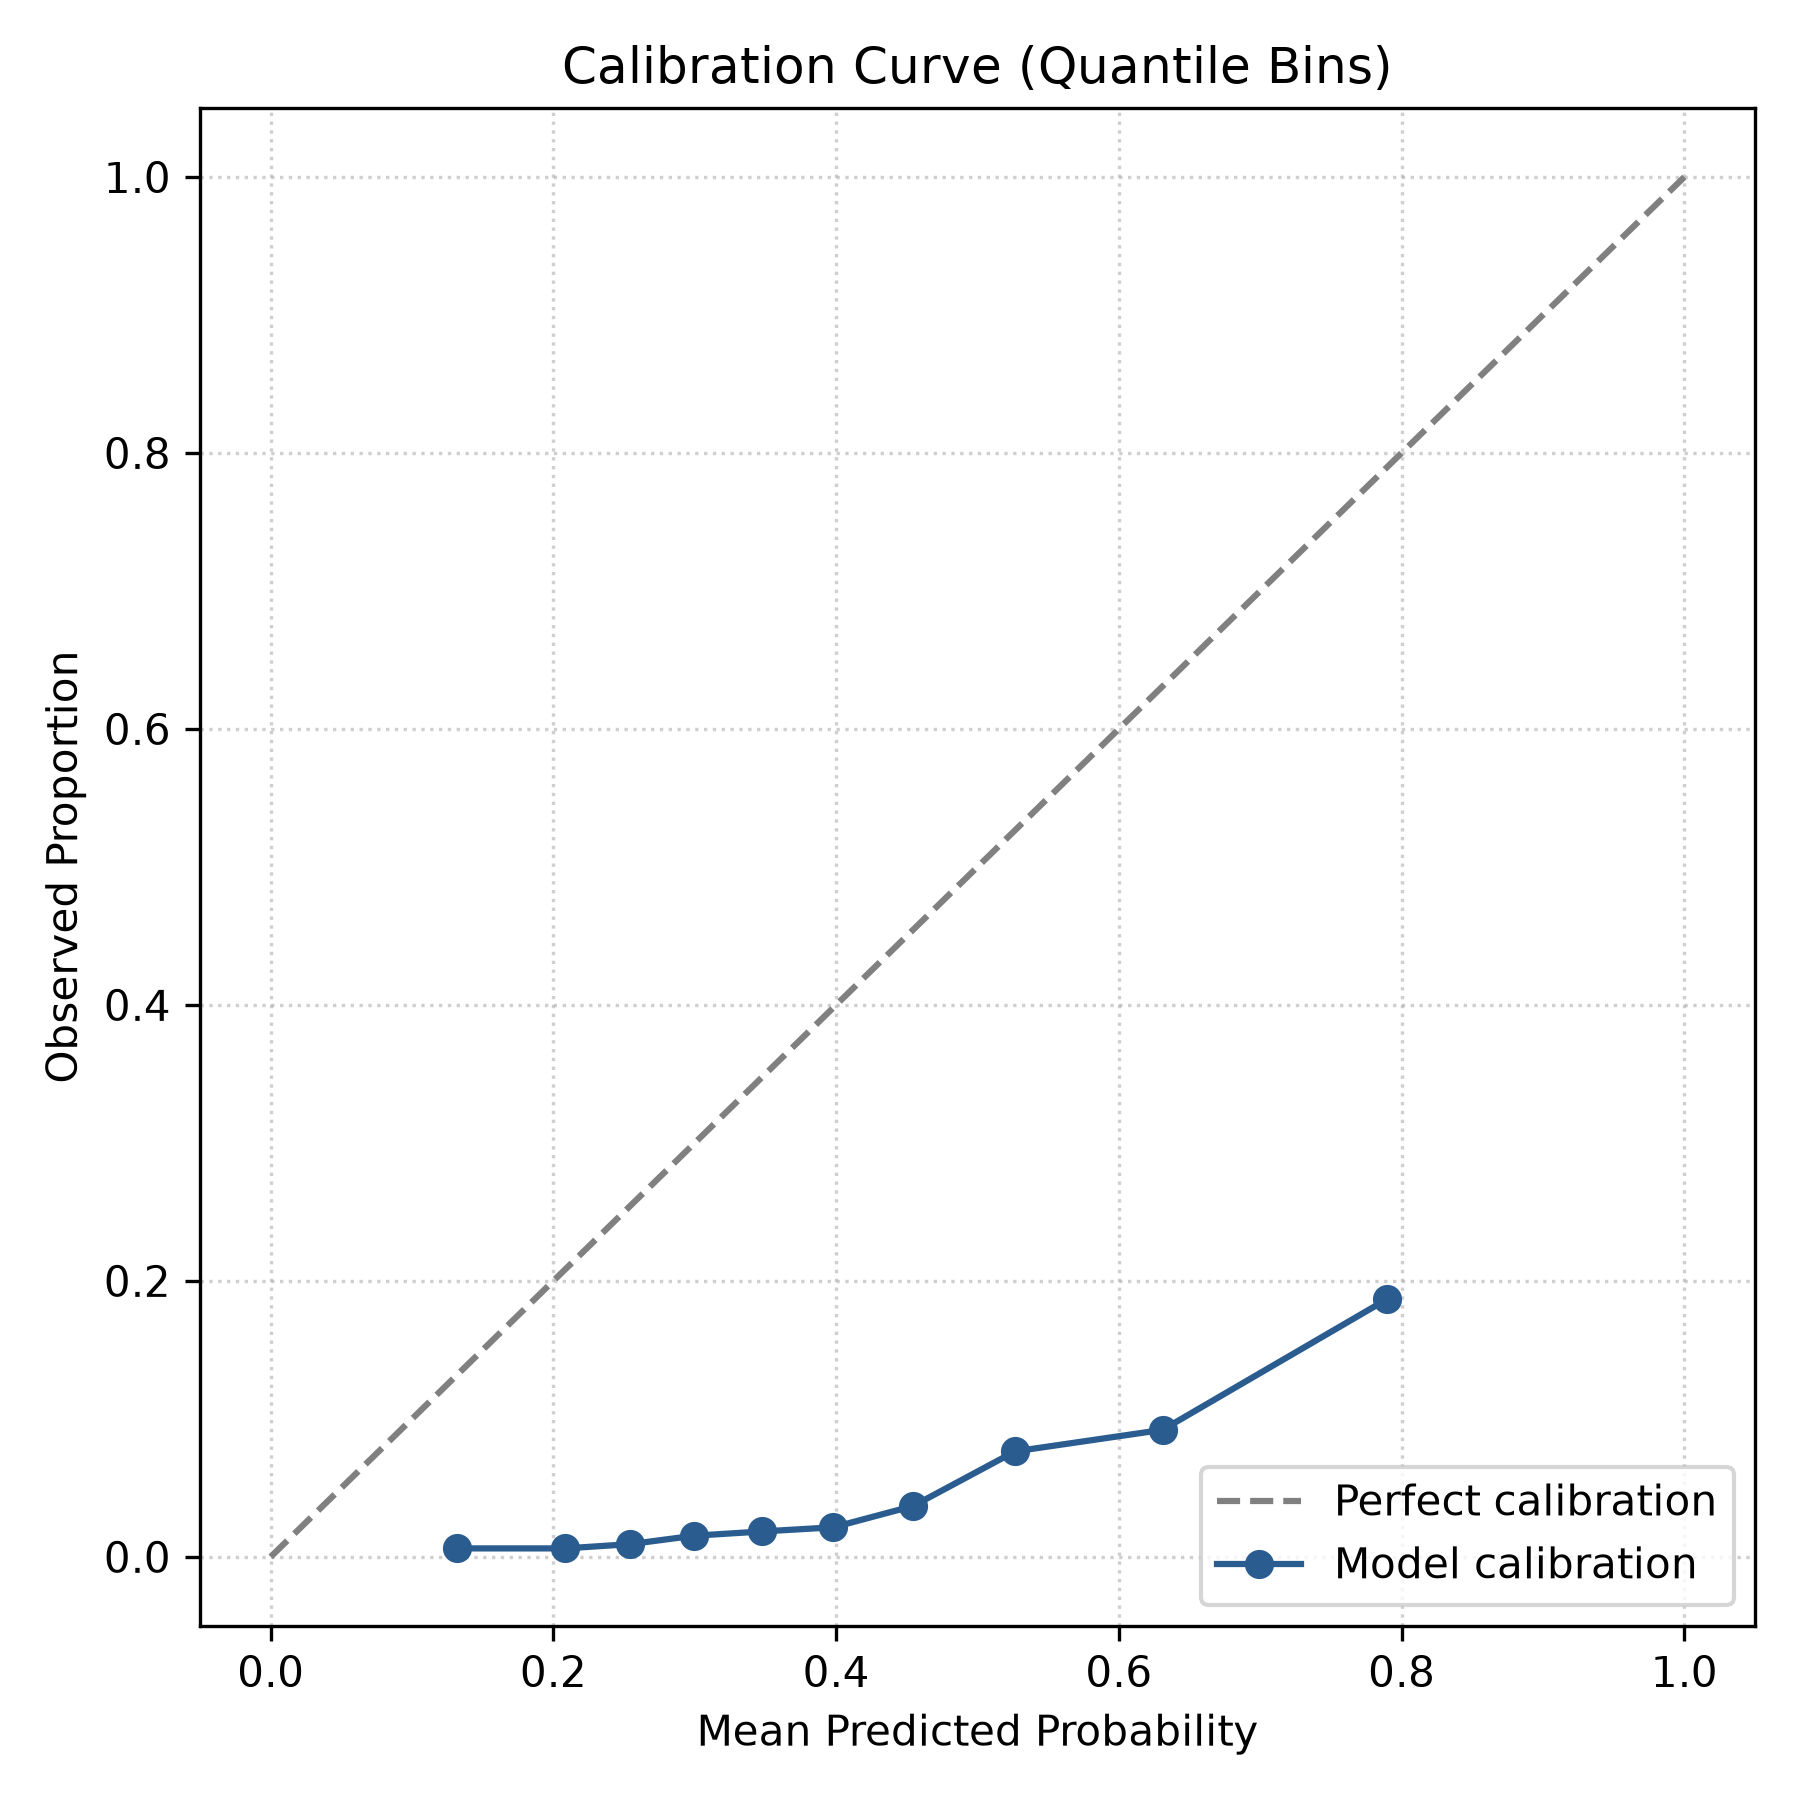
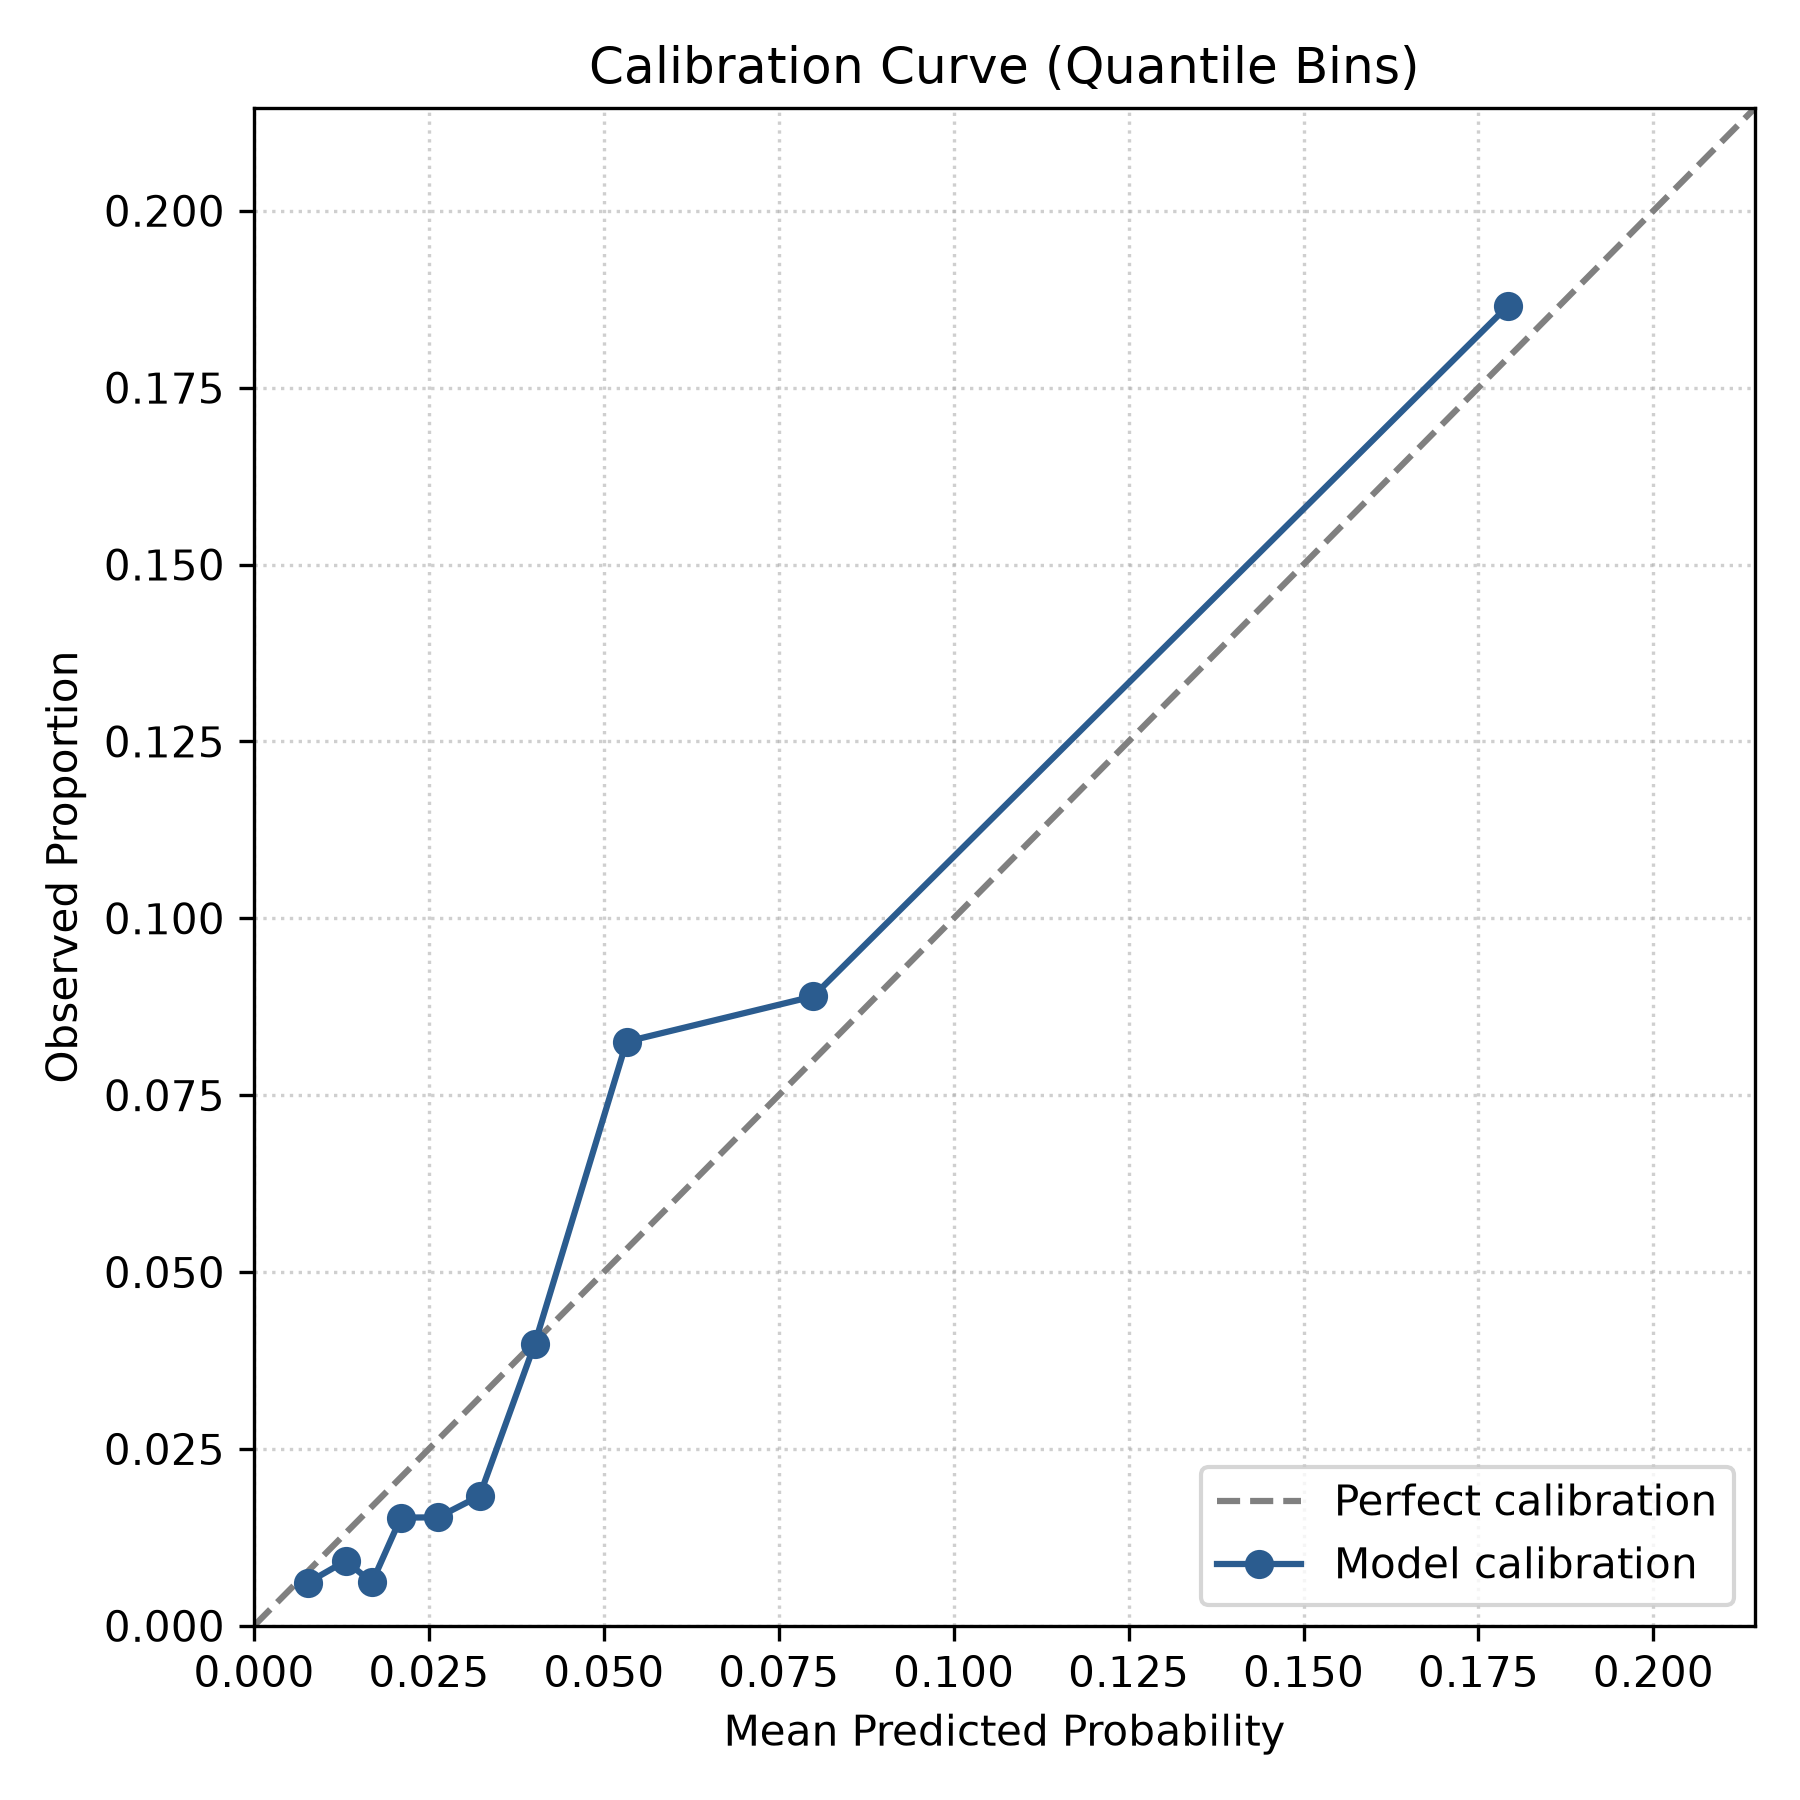
Train without class weighting and report observed-scale probabilities
Remove inverse-frequency class weighting, which pushed predicted
probabilities towards 50% (Brier 0.189). The unweighted model has
Brier 0.041 at the same AUC (0.805), with the Youden threshold (0.0494)
chosen on out-of-fold predictions. Bump model to v1.1.0, update the
regression tests and README, and zoom the calibration plot axes.

diff --git a/src/stroke_model/train.py b/src/stroke_model/train.py
@@ -51,12 +51,10 @@ def train_ridge_model(
     X_test = test_df[ALL_PREDICTORS]
     y_test = test_df[TARGET_COLUMN].values
 
-    # Calculate class weights for training set (inverse frequency)
-    n_survived = int(np.sum(y_train == 0))
-    n_died = int(np.sum(y_train == 1))
-    death_weight = float(n_survived / n_died)
-    class_weight = {0: 1.0, 1: death_weight}
-    print(f"  Class weights - Survived (0): 1.0, Died (1): {death_weight:.2f}")
+    # No class weighting: each patient counts equally so that predicted
+    # probabilities stay on the scale of the observed death rate. The low event
+    # rate is handled by the Youden threshold chosen in Step 5.
+    print(f"  Training deaths: {int(np.sum(y_train == 1))} of {len(y_train)} ({np.mean(y_train):.1%})")
 
     print("Step 3: Setting up preprocessing and Ridge logistic regression pipeline...")
     pipeline = Pipeline(
@@ -67,7 +65,6 @@ def train_ridge_model(
                 LogisticRegression(
                     solver="lbfgs",
                     max_iter=1000,
-                    class_weight=class_weight,
                     random_state=123
                 )
             )
@@ -159,7 +156,7 @@ def train_ridge_model(
 
     # Save model artifact and metadata
     print("Step 9: Packaging model artifact and metadata...")
-    model_version = "v1.0.0"
+    model_version = "v1.1.0"
     model_file = output_path / "stroke_ridge_pipeline.joblib"
     joblib.dump(best_pipeline, model_file)
 
@@ -172,7 +169,7 @@ def train_ridge_model(
         "cv_auc": round(best_cv_auc, 4),
         "test_metrics": test_metrics,
         "predictors": ALL_PREDICTORS,
-        "class_weight_death": death_weight
+        "class_weighting": "none"
     }
 
     metadata_file = output_path / "model_metadata.json"

diff --git a/tests/test_predict.py b/tests/test_predict.py
@@ -124,10 +124,30 @@ def test_clinical_monotonicity_subtype():
 
 
 def test_model_regression_snapshot():
-    """Golden regression test: verify fixed synthetic patient matches saved model baseline."""
-    predictor = StrokePredictor()
-    result = predictor.predict_record(SYNTHETIC_RECORDS[0])
+    """Golden regression test: fixed synthetic patients must match the saved v1.1.0 baseline.
 
-    # Low risk synthetic baseline (expected ~0.04)
-    assert 0.01 <= result["mortality_probability"] <= 0.10
-    assert result["high_risk_flag"] is False
+    The model is trained without class weighting, so predicted probabilities sit on the
+    scale of the observed death rate (about 4.7%). The Youden threshold is about 0.049.
+    """
+    predictor = StrokePredictor()
+
+    # Low risk synthetic patient: predicted risk about 0.005, below the threshold
+    low = predictor.predict_record(SYNTHETIC_RECORDS[0])
+    assert 0.001 <= low["mortality_probability"] <= 0.03
+    assert low["high_risk_flag"] is False
+
+    # High risk synthetic patient: predicted risk about 0.47, above the threshold
+    high = predictor.predict_record(SYNTHETIC_RECORDS[1])
+    assert 0.30 <= high["mortality_probability"] <= 0.65
+    assert high["high_risk_flag"] is True
+
+
+def test_probabilities_on_observed_risk_scale():
+    """The typical synthetic patient must not receive a risk far above the 4.7% death rate.
+
+    Guards against reintroducing class weighting, which shifts probabilities towards 50%.
+    """
+    predictor = StrokePredictor()
+    mid_record = dict(SYNTHETIC_RECORDS[0], age=72.0, sbp=150.0, delay=14.0, subtype="PACS")
+    assert predictor.predict_record(mid_record)["mortality_probability"] < 0.15
+    assert predictor.threshold < 0.15

diff --git a/src/stroke_model/evaluate.py b/src/stroke_model/evaluate.py
@@ -102,11 +102,17 @@ def plot_calibration(
         y_true, y_prob, n_bins=n_bins, strategy="quantile"
     )
 
+    # Zoom to the range of the data. Predicted risks are low because the event rate is low,
+    # so a 0 to 1 axis would squeeze every point into one corner.
+    axis_max = min(1.0, float(max(prob_pred.max(), prob_true.max())) * 1.15)
+
     plt.figure(figsize=(6, 6))
-    plt.plot([0, 1], [0, 1], linestyle="--", color="gray", label="Perfect calibration")
+    plt.plot([0, axis_max], [0, axis_max], linestyle="--", color="gray", label="Perfect calibration")
     plt.plot(prob_pred, prob_true, marker="o", color="#2b5c8f", label="Model calibration")
     plt.xlabel("Mean Predicted Probability")
     plt.ylabel("Observed Proportion")
+    plt.xlim(0, axis_max)
+    plt.ylim(0, axis_max)
     plt.title("Calibration Curve (Quantile Bins)")
     plt.legend(loc="lower right")
     plt.grid(True, linestyle=":", alpha=0.6)

diff --git a/README.md b/README.md
@@ -6,6 +6,14 @@ This project ports, packages, and serves a machine learning model predicting 14-
 
 ---
 
+## Live Demo
+
+The service is deployed on Render's free tier at [stroke-mortality-model.onrender.com](https://stroke-mortality-model.onrender.com). Opening the link redirects to the interactive API documentation at `/docs`, where the `POST /predict` endpoint can be tried directly in the browser.
+
+Two limitations of the free tier apply. The service sleeps after 15 minutes without traffic, so the first request after a quiet period can take about a minute. The filesystem is also reset on every restart, so prediction logs written by the deployed service are not kept. The drift check in `monitoring/` is intended to be run on logs from a local run.
+
+---
+
 ## Clinical and Methodological Context
 
 In acute stroke care, early mortality risk assessment can assist in triage, resource planning, and identifying patients at elevated risk of deterioration. 
@@ -13,7 +21,7 @@ In acute stroke care, early mortality risk assessment can assist in triage, reso
 A primary methodological challenge in this cohort is the severe **class imbalance**, with an observed event rate of **4.7%**. Standard evaluation approaches that focus purely on accuracy or discrimination (such as the Area Under the ROC Curve) can be misleading:
 * A model can achieve an AUC of 0.80 while still predicting risks that are systematically too high or too low.
 * For rare adverse events, **calibration** (assessed via calibration curves and Brier score) is vital to ensure that a predicted probability of 10% genuinely corresponds to roughly 10 observed deaths per 100 similar patients.
-* The classification threshold must be chosen deliberately. Here, **Youden's J statistic** is optimised strictly on cross-validation folds to balance sensitivity and specificity without data leakage into the test set.
+* The classification threshold must be chosen deliberately. Here, **Youden's J statistic** is optimised strictly on cross-validation folds to balance sensitivity and specificity without data leakage into the test set. Because the event rate is low, the resulting threshold on predicted risk is also low (about 0.049), and the high-risk flag is a screening flag and not a confident prediction of death.
 
 ---
 
@@ -66,7 +74,7 @@ python -m stroke_model.train
 
 This performs:
 1. Stratified 75/25 train-test partitioning.
-2. 10-fold cross-validation with inverse-frequency class weighting.
+2. 10-fold cross-validation to tune the ridge penalty, with no class weighting.
 3. Optimal regularisation tuning for Ridge logistic regression.
 4. Out-of-fold threshold optimisation using Youden's J statistic.
 5. Export of the versioned model pipeline artifact to `models/`.
@@ -144,10 +152,10 @@ curl -X POST "http://localhost:8000/predict" \
 Example response:
 ```json
 {
-  "mortality_probability": 0.4128,
+  "mortality_probability": 0.0187,
   "high_risk_flag": false,
-  "threshold_applied": 0.5498,
-  "model_version": "v1.0.0",
+  "threshold_applied": 0.0494,
+  "model_version": "v1.1.0",
   "disclaimer": "Research demonstration only. Not for clinical use or medical decision-making."
 }
 ```
@@ -156,20 +164,24 @@ Example response:
 
 ## Results and Comparison with R Baseline
 
-Both pipelines utilise inverse-frequency class weighting (approximately 20.3x for deaths) to address the 4.7% event rate. A key methodological distinction is threshold selection: the R baseline selected Youden's threshold on the holdout test set, whereas the Python implementation optimised the threshold strictly across out-of-fold cross-validation folds before applying it to the untouched holdout test partition.
+The R baseline trained its ridge model with inverse-frequency class weighting (deaths counted about 20 times as heavily as survivors). The Python model is trained without class weighting, because the weighting raised every predicted probability towards 50% and left it unusable as a risk estimate. The low event rate is handled instead by the classification threshold. Threshold selection also differs. The R baseline selected Youden's threshold on the holdout test set, whereas the Python implementation optimised the threshold across out-of-fold cross-validation folds before applying it to the untouched holdout test partition.
 
-| Metric | R Baseline (glmnet) | Python Implementation (scikit-learn) | Notes |
+| Metric | R Baseline (glmnet, weighted) | Python Implementation (scikit-learn, unweighted) | Notes |
 |---|---|---|---|
 | Model Architecture | Ridge Logistic Regression (L2) | Ridge Logistic Regression (L2) | Standardised predictors |
-| Cross-validation AUC | 0.7813 | 0.7652 | 10-fold stratified CV |
-| Test Partition AUC | Not reported separately | 0.8029 | 25% holdout (3,266 patients) |
-| Probability Calibration (Brier Score) | Not evaluated | 0.1891 | Mean squared probability error |
-| Youden Decision Threshold | 0.50 (nominal) / 0.55 | 0.5498 | Tuned out-of-fold in Python |
-| Test Sensitivity | 69.1% | 65.4% | True positive rate |
-| Test Specificity | 75.3% | 79.9% | True negative rate |
-| Test F1-Score | 0.2016 | 0.2275 | Harmonic mean of precision/recall |
+| Cross-validation AUC | 0.7813 | 0.7657 | 10-fold stratified CV on the training partition |
+| Test Partition AUC | Not reported separately | 0.8048 | 25% holdout (3,266 patients) |
+| Brier Score | 0.188 | 0.0412 | Mean squared error of predicted risk. Lower is better. The R value was computed afterwards from the saved R predictions, not reported in the original analysis |
+| Mean Predicted Risk | 39.8% | 4.7% | Observed death rate in the holdout is 4.7% |
+| Youden Decision Threshold | 0.50 (nominal) / 0.55 | 0.0494 | Cutoff on predicted risk. Tuned out-of-fold in Python |
+| Test Sensitivity | 69.1% | 73.2% | Share of deaths flagged high risk |
+| Test Specificity | 75.3% | 75.0% | Share of survivors not flagged |
+| Test Precision | Not reported | 12.6% | Share of flagged patients who died |
+| Test F1-Score | 0.2016 | 0.2146 | Harmonic mean of precision and sensitivity |
 
-The calibration curve is stored at `reports/calibration_plot.png`. Due to inverse-frequency weighting during training, predicted probabilities represent weighted risk scores; post-hoc calibration can be applied if absolute population incidence probabilities are required.
+For reference, a model that gave every patient the same risk of 4.7% would have a Brier score of about 0.045. The R model's Brier score is far above this because of the weighting. An earlier Python run with the same class weighting as R gave a test AUC of 0.8029 and a Brier score of 0.1891, so removing the weighting did not change how well patients are ranked.
+
+At the Python threshold of 0.0494, about 27% of holdout patients are flagged high risk, and about 13% of flagged patients died. The flag is therefore a screening flag. The calibration curve is stored at `reports/calibration_plot.png`.
 
 ---
 
